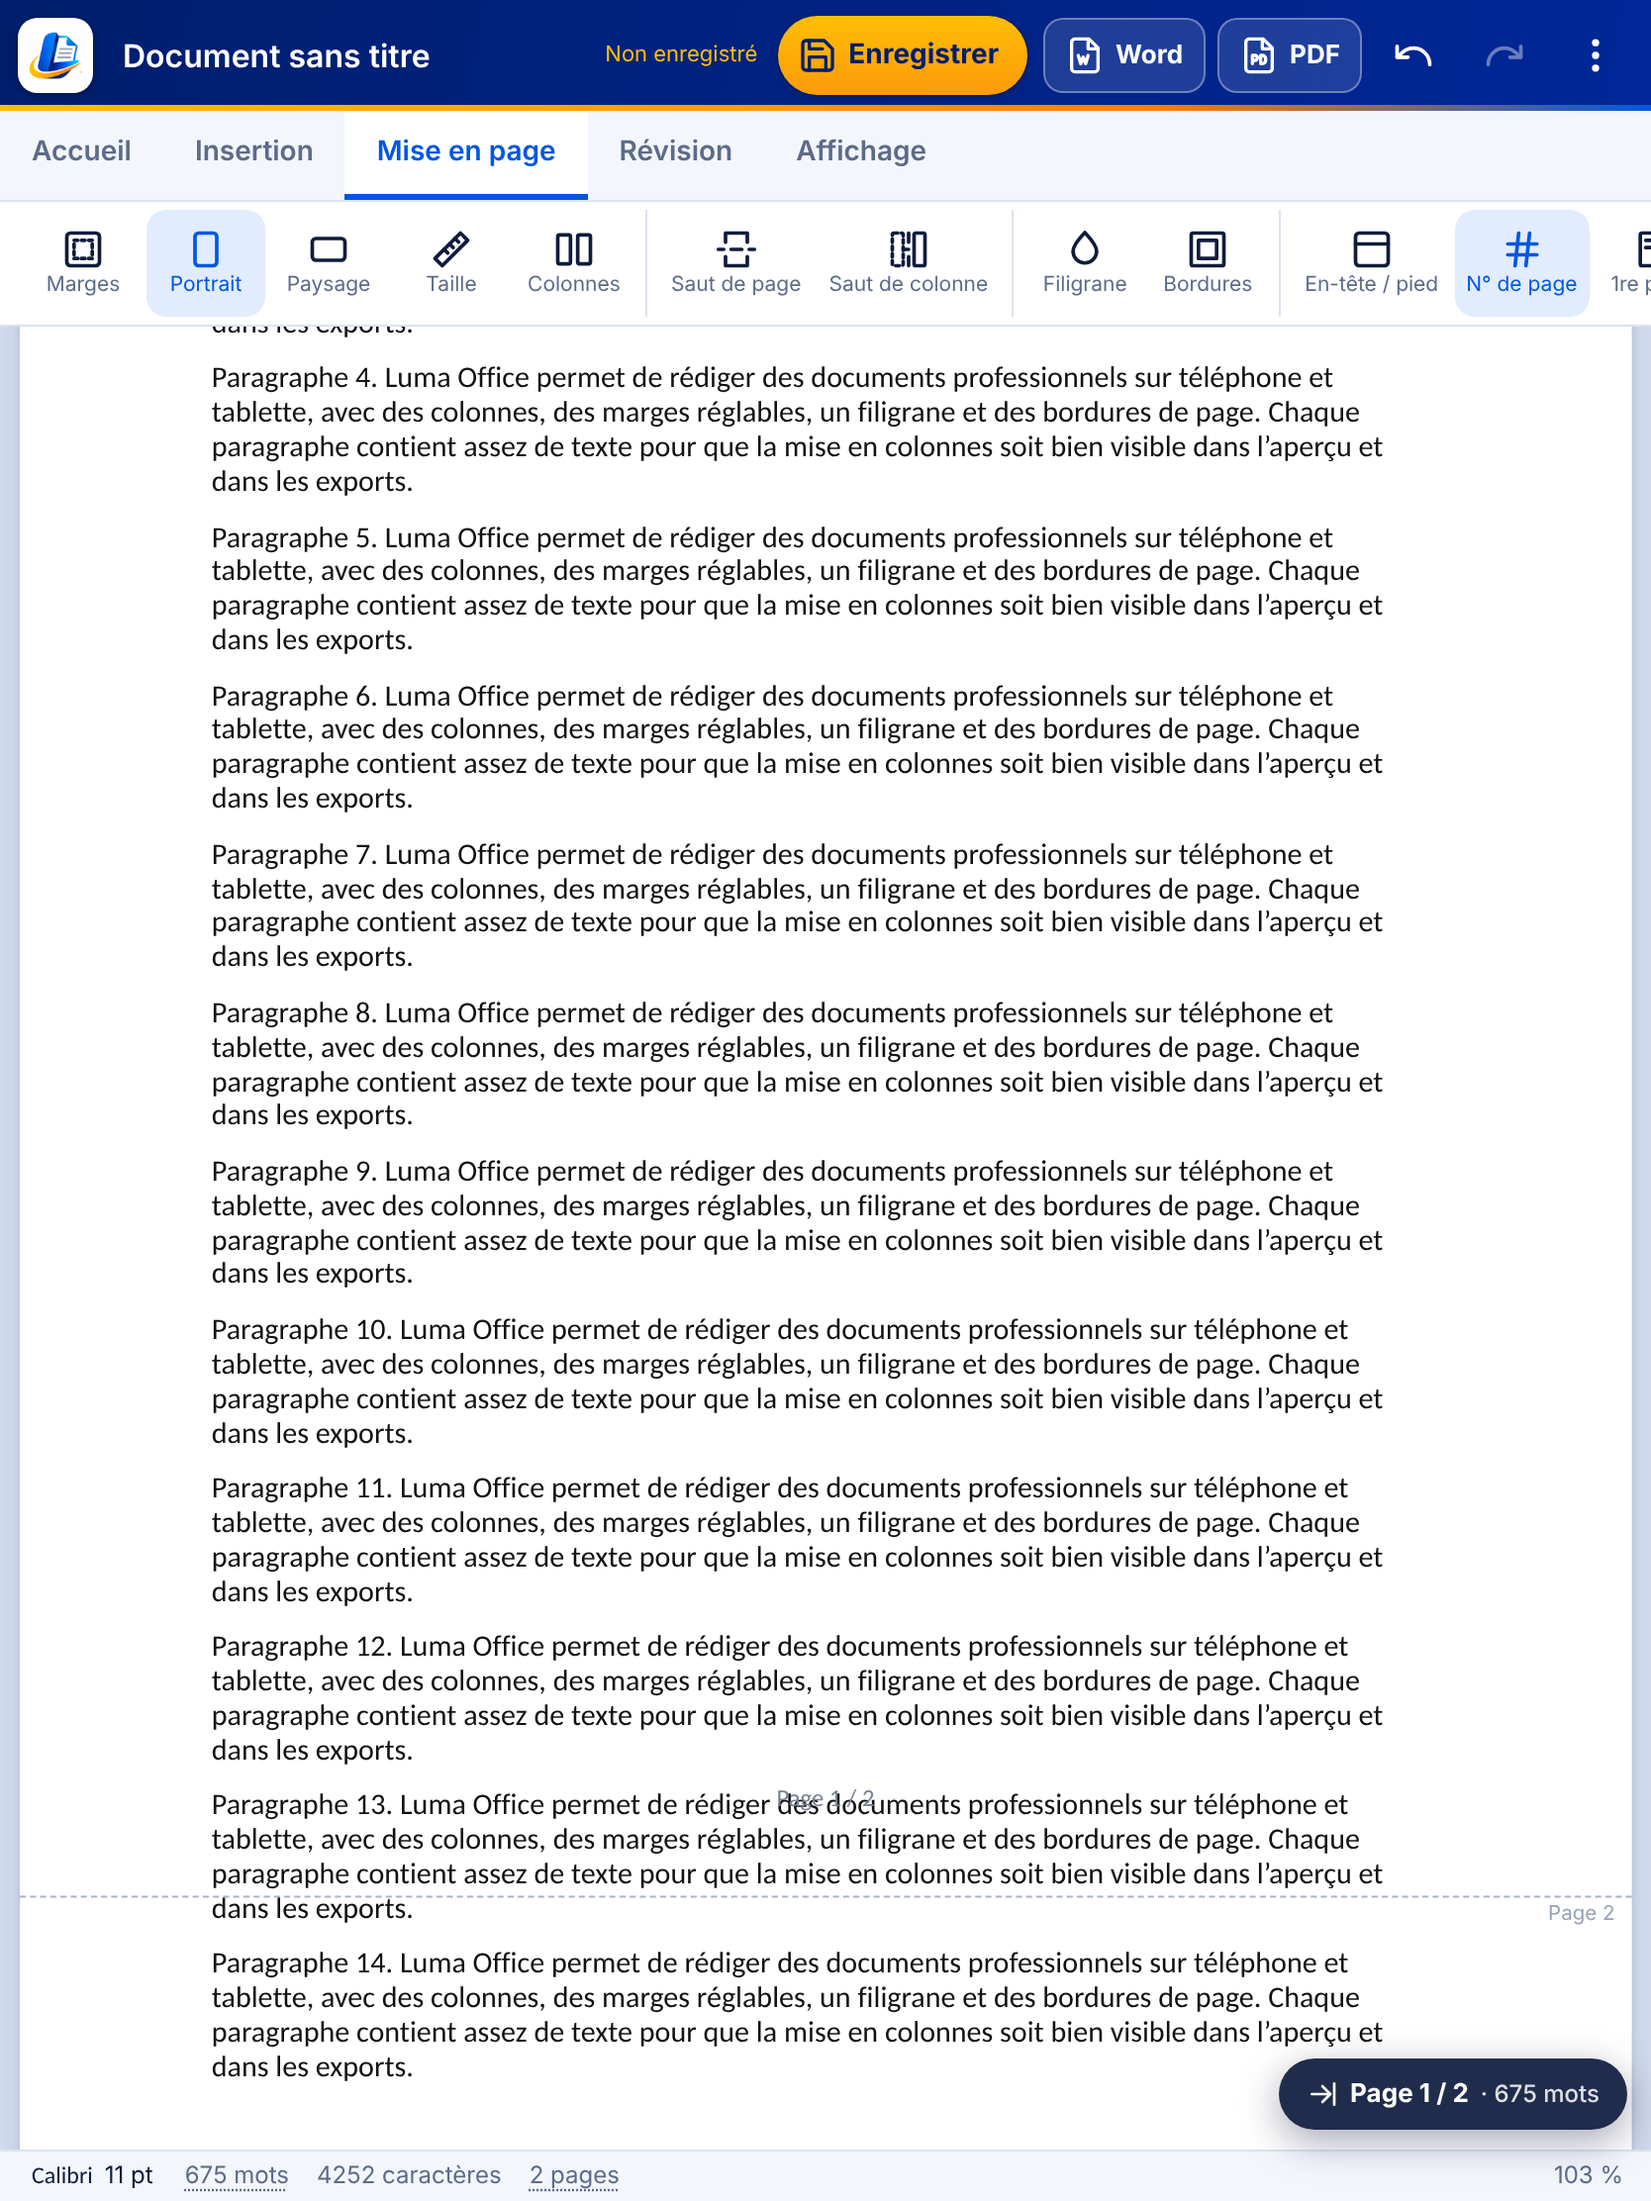
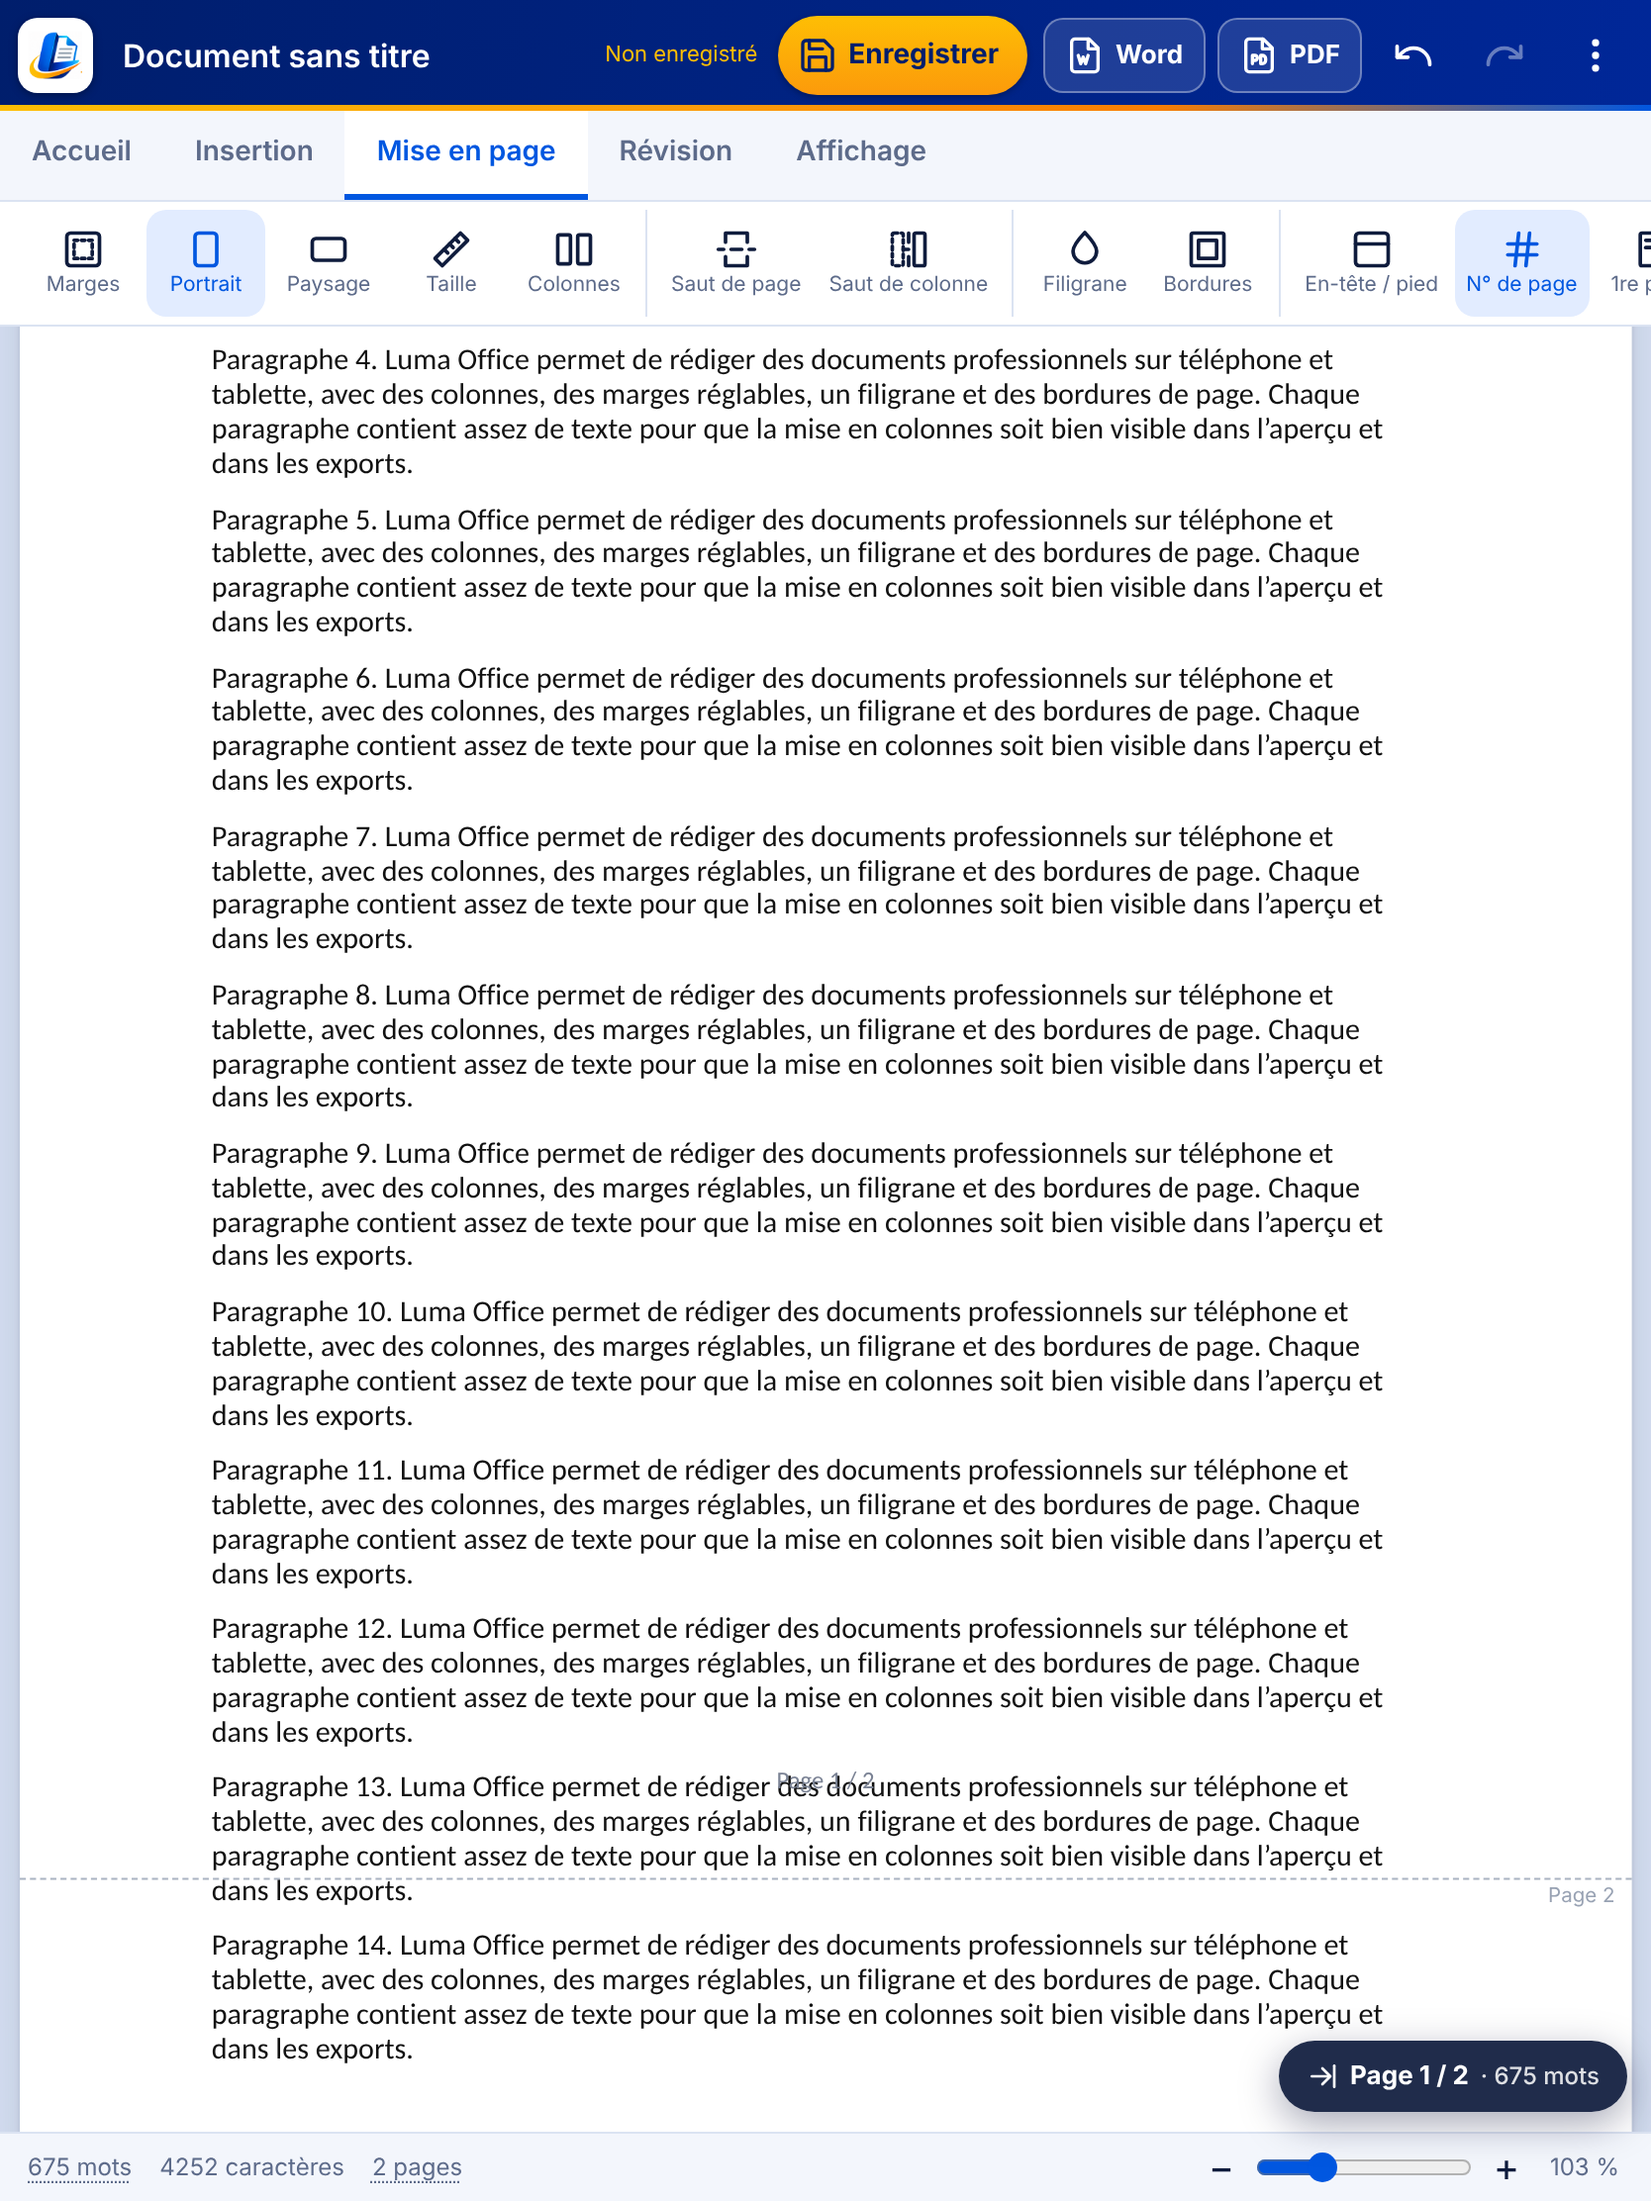
Zoom en bas de page, suppression de la bulle de mise en forme, fichier de suivi SUIVI.md
Claude-Session: https://claude.ai/code/session_019kwQQ9JquCX9yM5YDjyzzC

Changed region(s): [[0.0, 0.1551, 1.0, 1.0], [0.3118, 0.9618, 0.3741, 1.0], [0.9353, 0.8377, 0.9664, 0.8687]]

diff --git a/src/editor-view.js b/src/editor-view.js
@@ -75,6 +75,7 @@ export function mountEditor(host, docRec, hooks) {
   const scroller = h('main', { class: 'scroller' }, stage);
   const findBar = h('div', { class: 'findbar', hidden: true });
   const statusbar = h('footer', { class: 'statusbar' });
+  const sbLeft = h('div', { class: 'sb-left' });
   const root = h('div', { class: 'editor-view' });
 
   /* ---------- Éditeur ---------- */
@@ -198,21 +199,33 @@ export function mountEditor(host, docRec, hooks) {
     setTimeout(() => { saveBtn.classList.remove('ok'); saveBtn.replaceChildren(icon('save', 20), h('span', {}, 'Enregistrer')); }, 1800);
   }
 
+  /* ---------- Zoom en bas à droite (comme Word) ---------- */
+  const zSlider = h('input', { type: 'range', class: 'zoom-rng', min: '30', max: '300', step: '5', 'aria-label': 'Zoom' });
+  const zPct = h('button', { class: 'zoom-pct', title: 'Ajuster à la largeur', onclick: () => zoomFit() });
+  const zoomCtl = h('div', { class: 'zoom-ctl' },
+    h('button', { class: 'zoom-btn', 'aria-label': 'Zoom arrière', title: 'Zoom arrière', onclick: () => zoomBy(-0.1) }, '−'),
+    zSlider,
+    h('button', { class: 'zoom-btn', 'aria-label': 'Zoom avant', title: 'Zoom avant', onclick: () => zoomBy(0.1) }, '+'), zPct);
+  statusbar.append(sbLeft, zoomCtl);
+  zSlider.addEventListener('input', () => { zoomMode = Math.max(0.3, Math.min(3, +zSlider.value / 100)); if (mode !== 'page') setMode('page'); else scheduleLayout(); zPct.textContent = zSlider.value + ' %'; });
+  function updateZoomCtl() {
+    const pct = Math.round(curZoom() * 100);
+    if (document.activeElement !== zSlider) zSlider.value = String(Math.max(30, Math.min(300, pct)));
+    zPct.textContent = pct + ' %';
+  }
+
   /* ---------- Statistiques / barre d'état ---------- */
   function updateStatus() {
     const cc = editor.storage.characterCount;
     const words = cc.words();
-    const z = mode === 'page' ? Math.round(curZoom() * 100) + ' %' : '';
     const nChanges = collectChanges(editor.state.doc).length;
-    statusbar.replaceChildren(...[
-      fmtSegment(),
+    sbLeft.replaceChildren(...[
       editor.storage.trackChanges.enabled || nChanges ? h('span', { class: 'track-flag' }, `${editor.storage.trackChanges.enabled ? '● Suivi' : 'Suivi'} : ${nChanges} modif.`) : null,
       showWc ? h('button', { class: 'sb-link', title: 'Statistiques du document', onclick: () => openStats() }, `${words} mot${words > 1 ? 's' : ''}`) : null,
       showWc ? h('span', { class: 'sb-chars' }, `${cc.characters()} caractères`) : null,
       h('button', { class: 'sb-link', title: 'Aller à une page', onclick: () => openGoto() }, mode === 'page' ? `${pageCount} page${pageCount > 1 ? 's' : ''}` : 'Mode adapté'),
-      h('span', { class: 'grow' }),
-      h('span', {}, z),
     ].filter(Boolean));
+    updateZoomCtl();
     updatePagePill();
   }
 
@@ -1017,6 +1030,7 @@ export function mountEditor(host, docRec, hooks) {
     ].filter(Boolean);
   }
   function showTip(info, x, y, ttl = 2800, source = 'caret') {
+    return; // la police et la taille sont lues dans le ruban (comme Word), plus de bulle
     tipSource = source;
     tip.replaceChildren(...tipContent(info));
     tip.hidden = false; tip.style.left = '0px'; tip.style.top = '0px';

diff --git a/src/style.css b/src/style.css
@@ -590,3 +590,12 @@ textarea.field { padding: 10px 12px; resize: vertical; line-height: 1.4; }
   h1, h2, h3 { break-after: avoid; }
   .search-hit { background: none !important; }
 }
+
+/* zoom en bas à droite (comme Word) */
+.sb-left { display: flex; gap: 14px; align-items: center; min-width: 0; flex: 1; overflow: hidden; white-space: nowrap; }
+.zoom-ctl { display: flex; align-items: center; gap: 4px; flex: none; }
+.zoom-btn { width: 26px; height: 26px; border-radius: 50%; border: 0; background: none; color: var(--text); font-size: 20px; line-height: 1; cursor: pointer; display: grid; place-items: center; padding: 0; }
+.zoom-btn:hover, .zoom-btn:active { background: var(--line); }
+.zoom-rng { width: 110px; accent-color: var(--brand); height: 24px; margin: 0; }
+.zoom-pct { border: 0; background: none; color: inherit; font: inherit; min-width: 42px; text-align: right; cursor: pointer; padding: 0 2px; }
+@media (max-width: 520px) { .zoom-rng { width: 70px; } .zoom-pct { min-width: 36px; } }

diff --git a/SUIVI.md b/SUIVI.md
@@ -1,0 +1,28 @@
+# Suivi de Luma Office
+
+Fichier mis à jour après chaque modification. Dernière mise à jour : 2026-11-11.
+
+## Dernière modification
+- **Zoom en bas de page (comme Word)** : boutons − / +, curseur 30–300 %, clic sur le pourcentage = ajuster à la largeur.
+- **Plus de petite fenêtre police/taille** au clic ou au survol d'un mot : la police et la taille s'affichent uniquement dans le ruban du haut (comme Word). Le rappel dans la barre d'état est aussi retiré.
+
+## Fait
+- Éditeur Word-like : mise en forme, paragraphes, listes, tableaux, images, liens, styles, table des matières, commentaires, suivi des modifications, rechercher/remplacer
+- Mise en page complète : marges, orientation, formats, colonnes, bordures (dont motifs cœurs, arbres…), filigrane, en-tête / pied de page, numérotation
+- Insertion : page vierge, sauts, formes, zone de texte, lettrine, date et heure, note de fin, symboles
+- Images : déplacement par glisser-déposer, redimensionnement, monter/descendre, habillage
+- Affichage : mode lecteur, vue en pavé, miniatures, aller à la page / aux titres, nombre de mots, zoom
+- Interligne, espacement et retraits
+- Export Word (.docx) et PDF (boutons à côté d'Enregistrer), import Word / PDF / Excel
+- Enregistrement automatique chaque minute, confirmation avant de quitter
+- PWA hors ligne, invitation à l'installation, « Ouvrir avec Luma Office », recherche de fichiers, pages Modèles et Paramètres, sauvegarde .zip
+- Menus déroulants personnalisés (police, taille, styles…), pied « Powered by JC Multimedia »
+
+## À faire / idées
+- Rien en attente pour l'instant.
+
+## Annulé
+- Modèles « Type de parcours / badge JC Academy / certificat / diplôme » : demande annulée par l'utilisateur.
+
+## Limites connues
+Voir `README.md` (section « Limites connues »).
